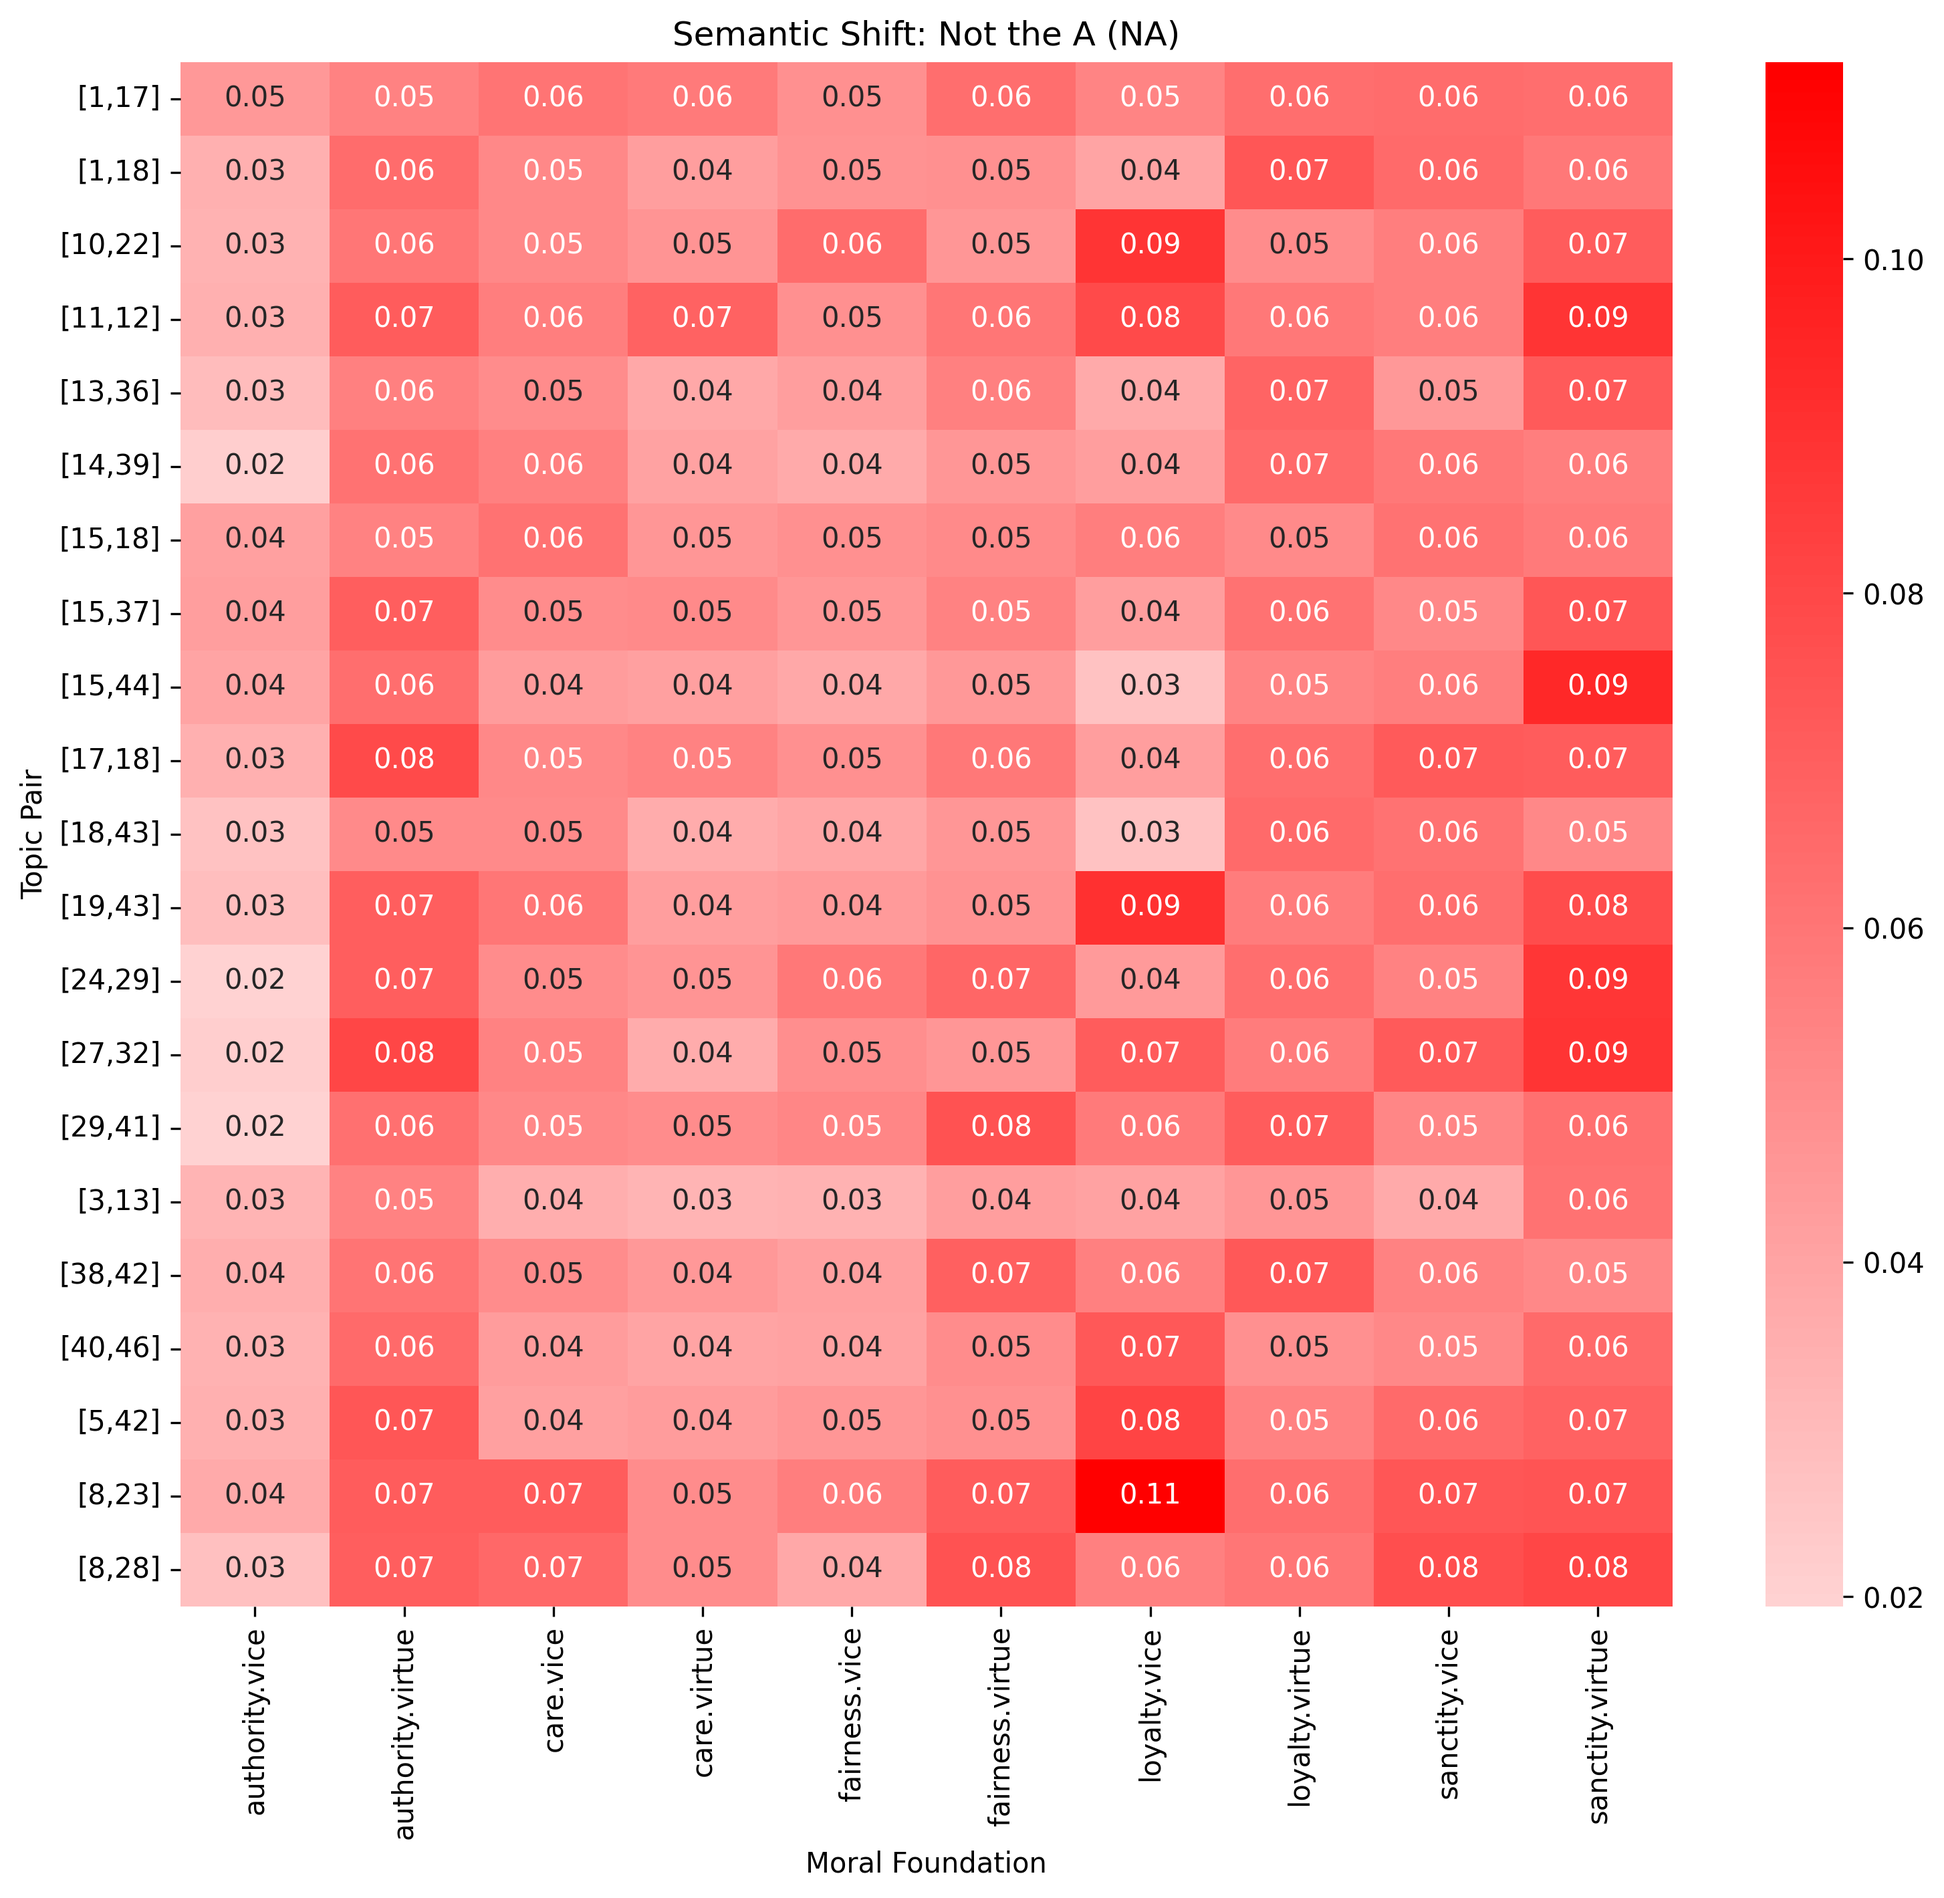
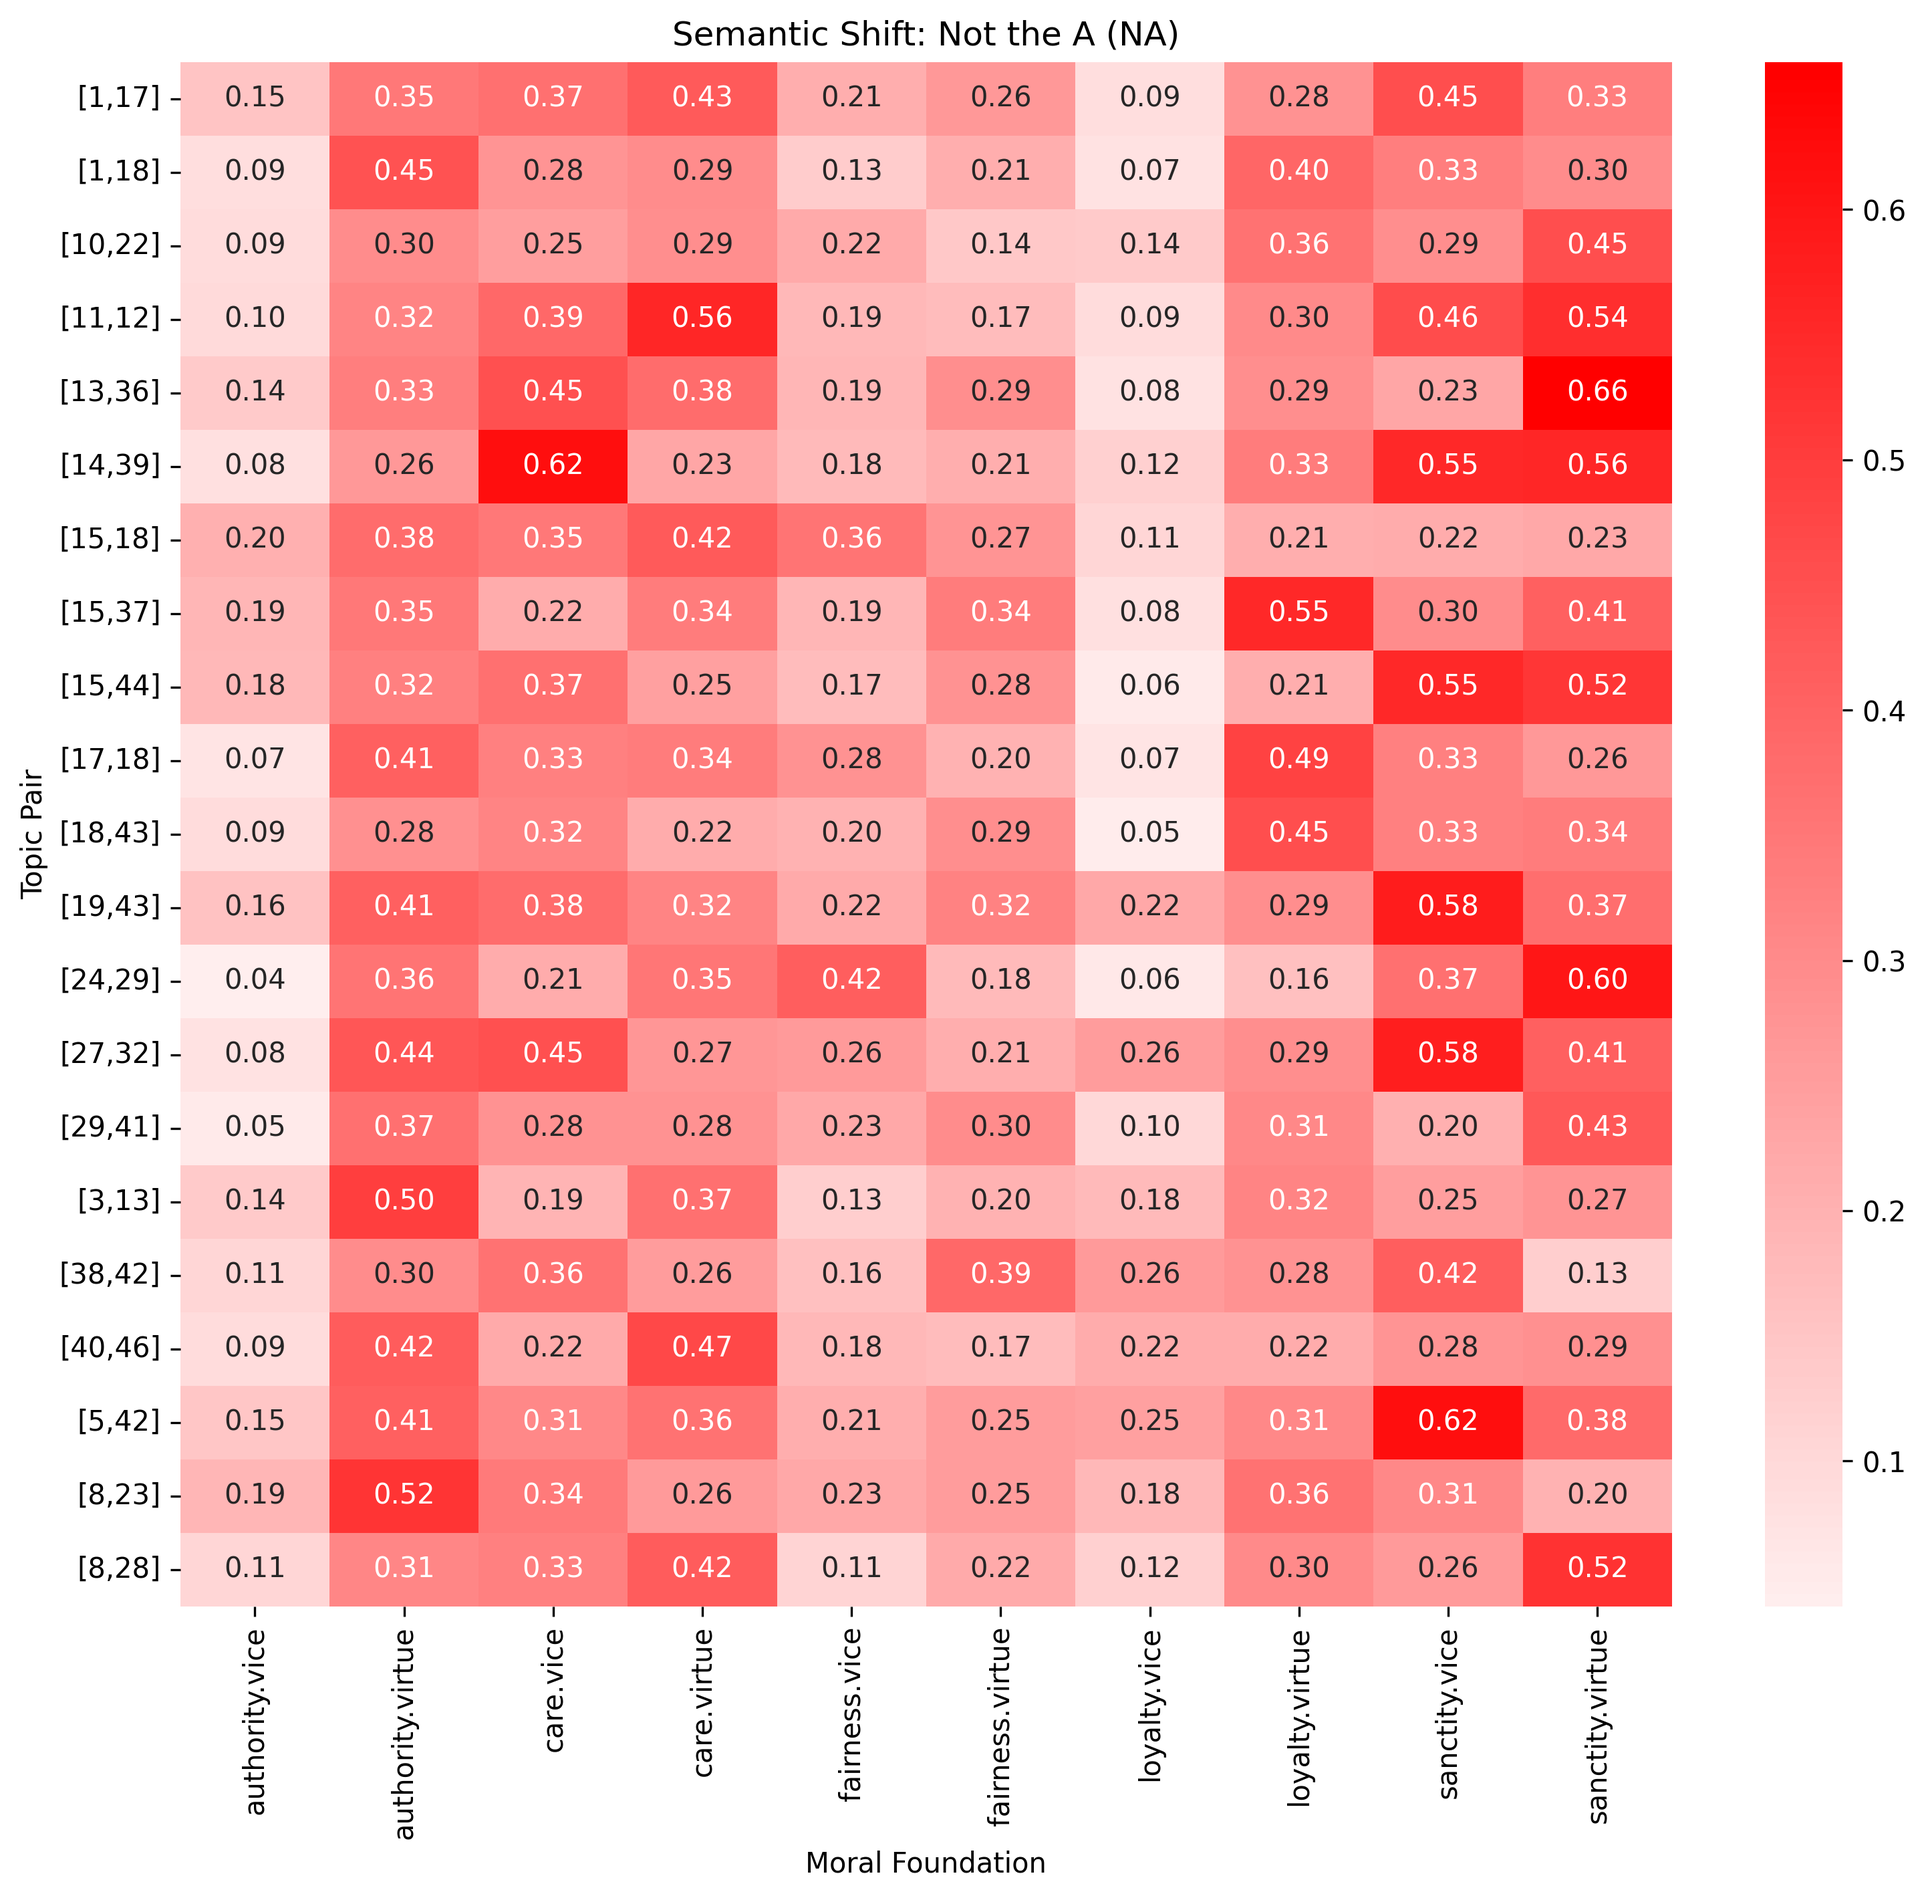
updated code to add NER removal and look for max cox diff, updated results too

diff --git a/source/context_drift_pipeline.py b/source/context_drift_pipeline.py
@@ -13,6 +13,7 @@ import time
 import seaborn as sns
 import matplotlib.pyplot as plt
 import os
+import spacy
 
 #Only needed temp
 import random
@@ -34,8 +35,8 @@ USE_SINGLE_GPU = True # note using multi GPU on Arc is slower by 4x
 DATA_FILE = f"{DATA_DIR}/aita_filtered.pkl"
 MFD_FILE = f"{DATA_DIR}/mfd2.0.dic"
 
-#MODEL_NAME = "roberta-base" # 15min on H200
-MODEL_NAME = "microsoft/mpnet-base" # 20min on H200
+MODEL_NAME = "roberta-base" # 15min on H200
+# MODEL_NAME = "microsoft/mpnet-base" # 20min on H200, 60 min w NER
 # MODEL_NAME = "sentence-transformers/all-mpnet-base-v2"
 # MODEL_NAME = "allenai/longformer-base-4096"
 MODEL_NAME_SAFE = MODEL_NAME.replace("/", "-")
@@ -49,6 +50,23 @@ HEATMAP_OUTFILE_NA = f'{RESULTS_DIR}/heatmap_mfd_NA_{MODEL_NAME_SAFE}.png'
 # ------------------------------
 # Definitions
 # ------------------------------
+
+def get_forbidden_indices(text):
+    """
+    Returns a set of character indices that belong to Named Entities.
+    """
+    doc = nlp(text)
+    forbidden_indices = set()
+    
+    for ent in doc.ents:
+        # We generally want to ignore Organizations, Countries, People, etc.
+        # labels: ORG (Saints), GPE (United States), PERSON (Jesus), etc.
+        if ent.label_ in ["ORG", "GPE", "PERSON", "FAC", "LOC", "DATE", "EVENT"]:
+            # Mark every character index in this entity as "forbidden"
+            for i in range(ent.start_char, ent.end_char):
+                forbidden_indices.add(i)
+                
+    return forbidden_indices
 
 def load_mfd_from_dic(filepath):
     """
@@ -127,9 +145,20 @@ def process_post_chunks(post_text, tokenizer, model, mfd_dict):
     # checks if this word is also in the MFG dic, if so
     #    appends it to a "word_matches" list that keeps the word, 
     #    the start/end indexes, the foundation and type = mdf
+
+    # ignore named entities
+    forbidden_map = get_forbidden_indices(post_text)
+
     word_matches = []
     for match in re.finditer(r'\b\w+\b', post_text):
         word = match.group().lower()
+        start_char, end_char = match.span()
+    
+        # Is this word inside a named entity?
+        # We check if the start index is in our forbidden set
+        if start_char in forbidden_map:
+            continue # SKIP IT! It's a proper noun, not a moral word.
+        
         if word in mfd_dict:
             word_matches.append((match.span(), word, 'mfd', mfd_dict[word]))
 
@@ -195,13 +224,24 @@ def generate_heatmap(results_list, title_suffix, filename):
         return
 
     print(f"\n--- Generating Matrix for {title_suffix} ---")
+
+    # Define a custom weighted average function
+    # x is the series of shift_dist values
+    # We find the corresponding counts using the index
+    def weighted_avg(x):
+        counts = df.loc[x.index, 'count']
+        if counts.sum() == 0: 
+            return 0
+        return np.average(x, weights=counts)
     
     # Pivot
     pivot_matrix = df.pivot_table(
         index='topic_id', 
         columns='foundation', 
         values='shift_dist', 
-        aggfunc='mean'
+        # aggfunc=weighted_avg
+        # aggfunc='mean'
+        aggfunc=np.max
     )
     
     print(pivot_matrix)
@@ -227,6 +267,8 @@ start_time = time.time()
 # ------------------------------
 # Load MFD2.0 Dictonary
 # ------------------------------
+nlp = spacy.load("en_core_web_sm", disable=["parser", "lemmatizer"])
+
 mfd_dict = load_mfd_from_dic(MFD_FILE) 
 
 # ------------------------------

diff --git a/source/results_ploting.py b/source/results_ploting.py
@@ -73,7 +73,7 @@ def plot_top_shifting_words(file_path, target_topic, target_foundation, top_n=10
 # ------------------------------
 
 # Change these to the Topic String and Foundation you want to inspect
-MY_TOPIC = "[21, 38]"  # Use the exact string format from your ID map
-MY_FOUNDATION = "loyalty.vice" # Or "fairness.vice", "authority.virtue", etc.
+MY_TOPIC = "[15,18]"  # Use the exact string format from your ID map
+MY_FOUNDATION = "authority.virtue" # Or "fairness.vice", "authority.virtue", etc.
 
 plot_top_shifting_words(FILE_PATH, MY_TOPIC, MY_FOUNDATION, top_n=10)
